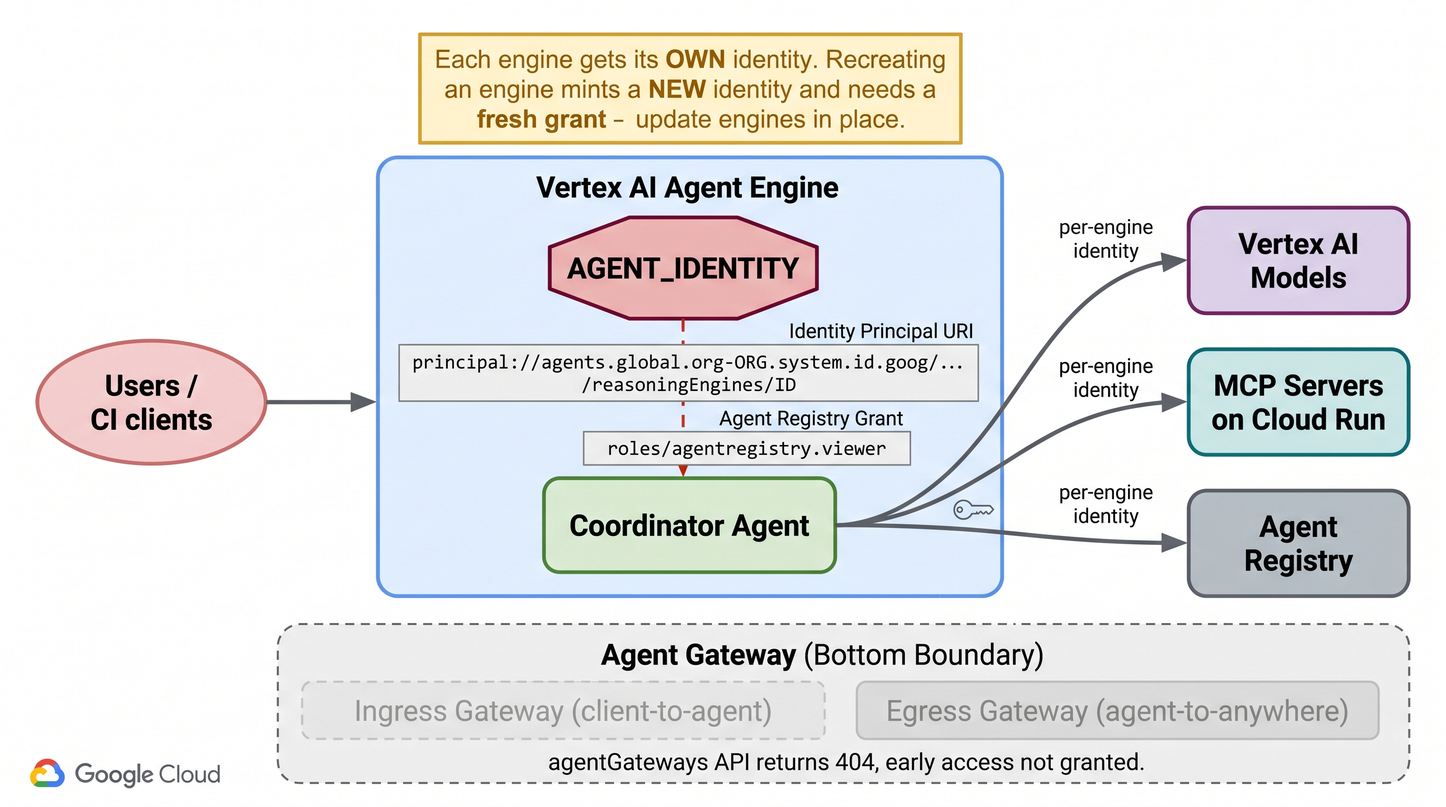
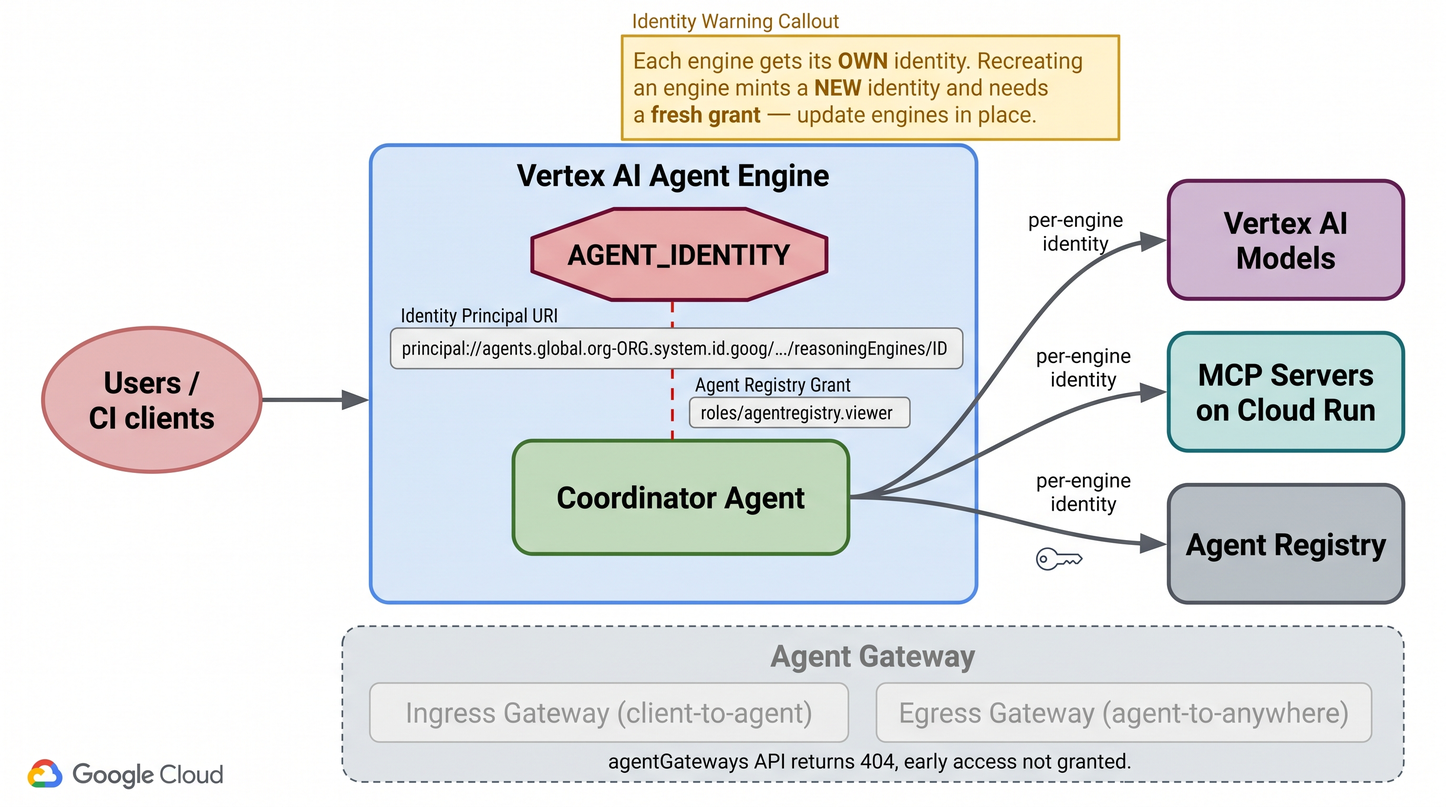
docs(diagrams): remove the dead duplicate set, add a platform overview, fix two renders
Follow-up to the regeneration, addressing the three things flagged for review.

**Removed docs/diagrams/.** Four specs with no committed outputs, and the reason
scripts/generate_diagrams.sh pointed at the wrong manifest. Three of the four
(multi_agent_mcp_topology, evaluation_pipeline, model_armor_security_layers) were
straight duplicates of diagrams 01/03/07. Checked for references before deleting:
only the script comment and the file's own header.

**But the fourth was a distinct concept, so it was preserved rather than lost.**
geap_architecture_overview was a single-slide whole-system view the 7-diagram set
had no equivalent of — genuinely useful as a workshop opener. Its content was
entirely wrong (sub-agent delegation, Agent Gateway as core, and invented tool
names like create_report / create_booking that do not exist in the MCP servers),
so it is rewritten from scratch as 08_platform_overview with the real topology
and the real tool names, and added to the batch manifest.

**Two render fixes:**
* 07 had TWO red "User Prompt" ellipses — one at the entry point and a duplicate
  stacked above the guardrail octagon. Now one, and the grey graph-paper texture
  behind the canvas is gone.
* 04's gateway region was titled "Agent Gateway (Bottom Boundary)" — layout jargon
  that leaked out of the planner. Retitled to plain "Agent Gateway"; the faded
  styling plus the "agentGateways API returns 404, early access not granted"
  subtext carries the not-enabled meaning.
[…]

Changed region(s): [[0.0, 0.0, 1.0, 0.9688], [0.0, 0.9375, 0.1562, 0.9688], [0.9375, 0.8438, 0.9688, 0.875]]

diff --git a/README.md b/README.md
@@ -143,17 +143,18 @@ Router tiers by complexity score (defaults, DOE-tuned for cost savings): `<0.44`
 
 ### Paper Banana Architecture Diagrams
 
-> These were rendered before the direct-tools rearchitecture — diagram 01 still shows the coordinator delegating to travel/expense sub-agents, and 06 shows the eval gate as blocking rather than advisory. The tables above are the current source of truth.
+Regenerated 2026-08-22 against the current system. Specs live in `diagrams/inputs/`; regenerate with `./scripts/generate_diagrams.sh`.
 
 | Diagram | Description |
 |---------|-------------|
-| ![Multi-Agent Topology](diagrams/outputs/01_multi_agent_topology.png) | Coordinator agent routing to travel and expense sub-agents with MCP tool servers |
-| ![Deployment Architecture](diagrams/outputs/02_deployment_architecture.png) | Cloud Run MCP servers + Agent Runtime deployment topology |
-| ![Evaluation Pipeline](diagrams/outputs/03_eval_pipeline.png) | Three-tier evaluation: one-time, continuous, and CI/CD simulated |
-| ![Agent Identity & Gateway](diagrams/outputs/04_agent_identity_gateway.png) | SPIFFE identity, attestation policies, and Agent Gateway flow |
-| ![Observability Stack](diagrams/outputs/05_observability_stack.png) | OTel traces → Cloud Trace → BigQuery pipeline |
-| ![CI/CD Flow](diagrams/outputs/06_ci_cd_flow.png) | GitHub Actions simulated eval gate on pull requests |
-| ![Model Armor](diagrams/outputs/07_agent_armor.png) | Model Armor input/output screening with guardrail callbacks |
+| ![Platform Overview](diagrams/outputs/08_platform_overview.png) | Single-slide overview: clients → guardrail → the two agents → MCP tools and models → the three eval surfaces |
+| ![Multi-Agent Topology](diagrams/outputs/01_multi_agent_topology.png) | Two independent **direct-tools** topologies — the coordinator and the 5-tier router each hold all three MCP toolsets; neither delegates to sub-agents |
+| ![Deployment Architecture](diagrams/outputs/02_deployment_architecture.png) | Agent Engine deployment: per-engine SPIFFE identity, the mandatory `cpu 4 / memory 16Gi`, managed Sessions and Memory Bank, MCP servers on Cloud Run |
+| ![Evaluation Pipeline](diagrams/outputs/03_eval_pipeline.png) | Three publishing surfaces — offline snapshot (canonical), client-side online monitor with `infra_empty_rate` split out, and router efficiency |
+| ![Agent Identity](diagrams/outputs/04_agent_identity_gateway.png) | Per-engine SPIFFE identity and the `roles/agentregistry.viewer` grant; Agent Gateway is shown greyed out because it is not enabled here |
+| ![Observability Stack](diagrams/outputs/05_observability_stack.png) | Platform-emitted telemetry (always on) vs self-reported quality series (only while a publisher runs) |
+| ![CI/CD Flow](diagrams/outputs/06_ci_cd_flow.png) | Three workflows: required cloud-free tests, the **advisory** eval gate, and the hourly scheduled publish |
+| ![Model Armor](diagrams/outputs/07_agent_armor.png) | Layered screening — the client-side guardrail always runs; Model Armor templates attach **only** on a regional Gemini-2.x backbone |
 
 ## Project Structure
 
